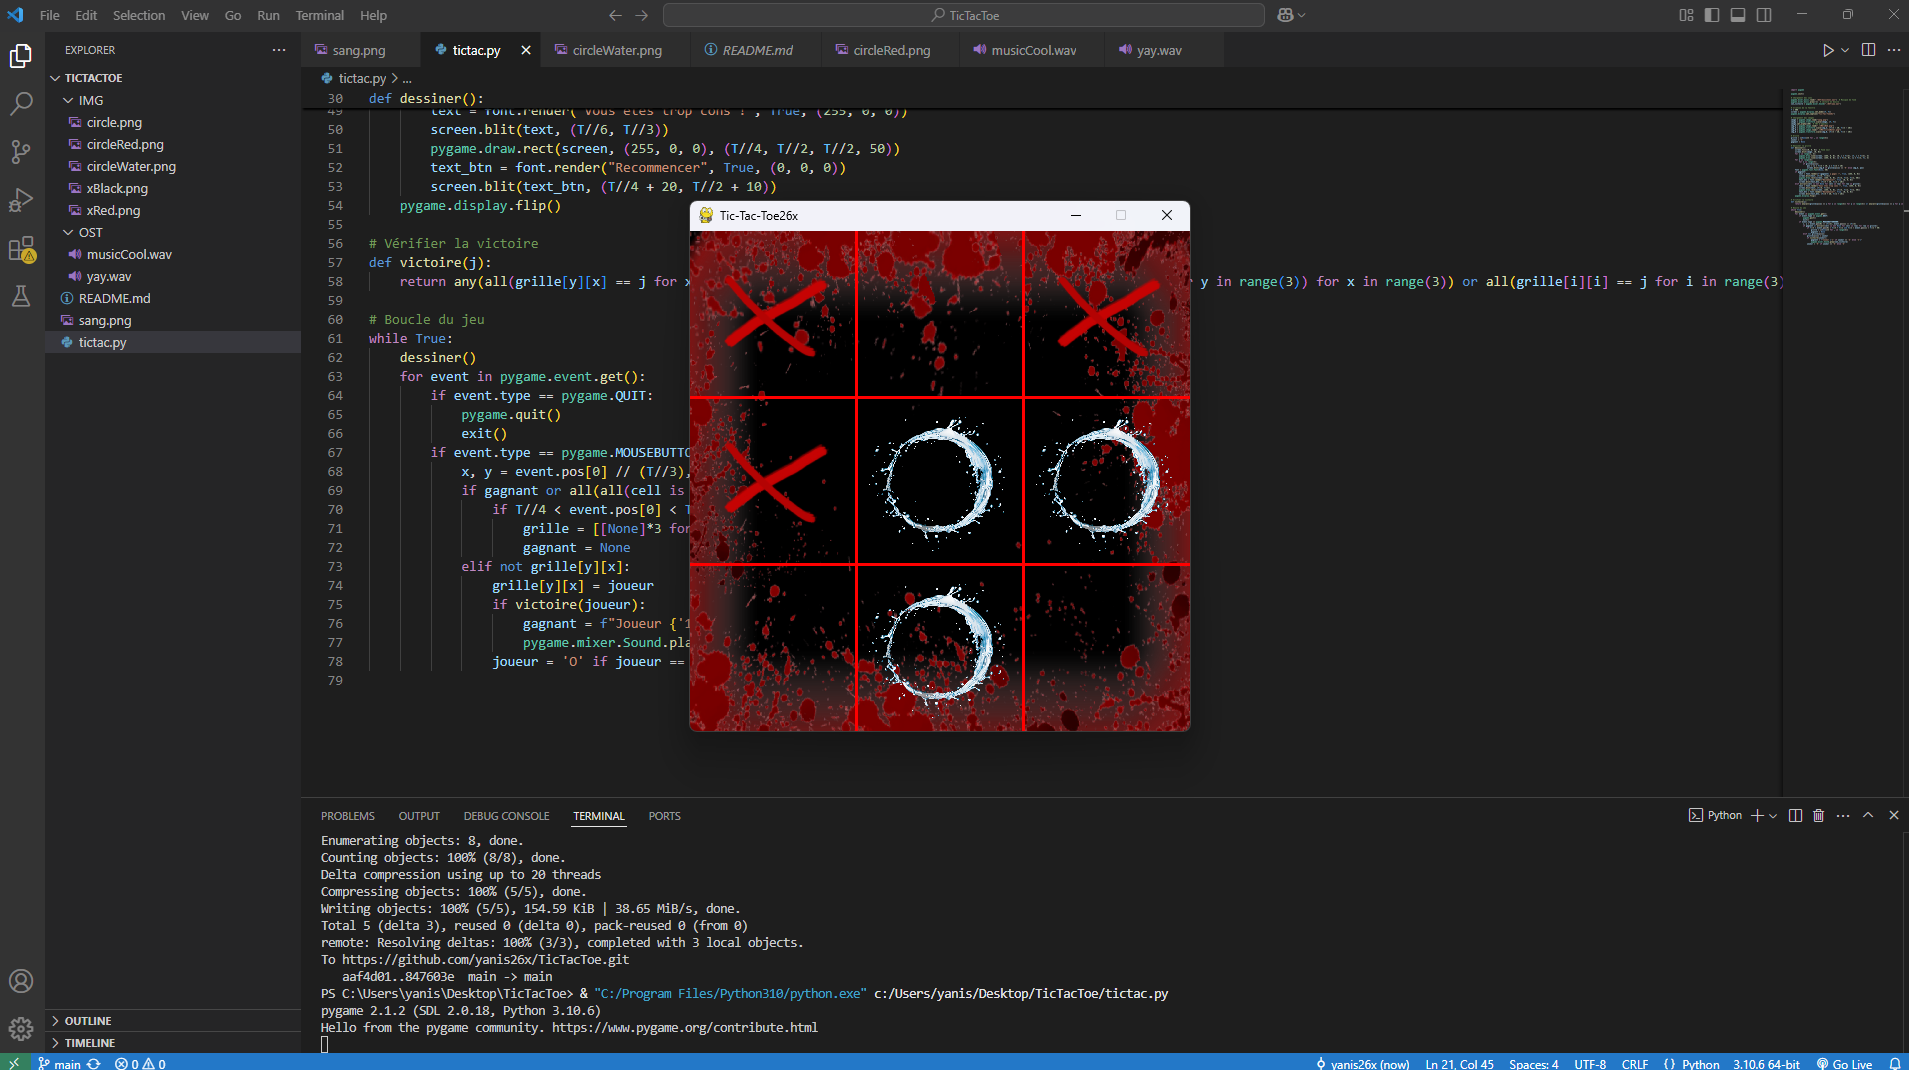
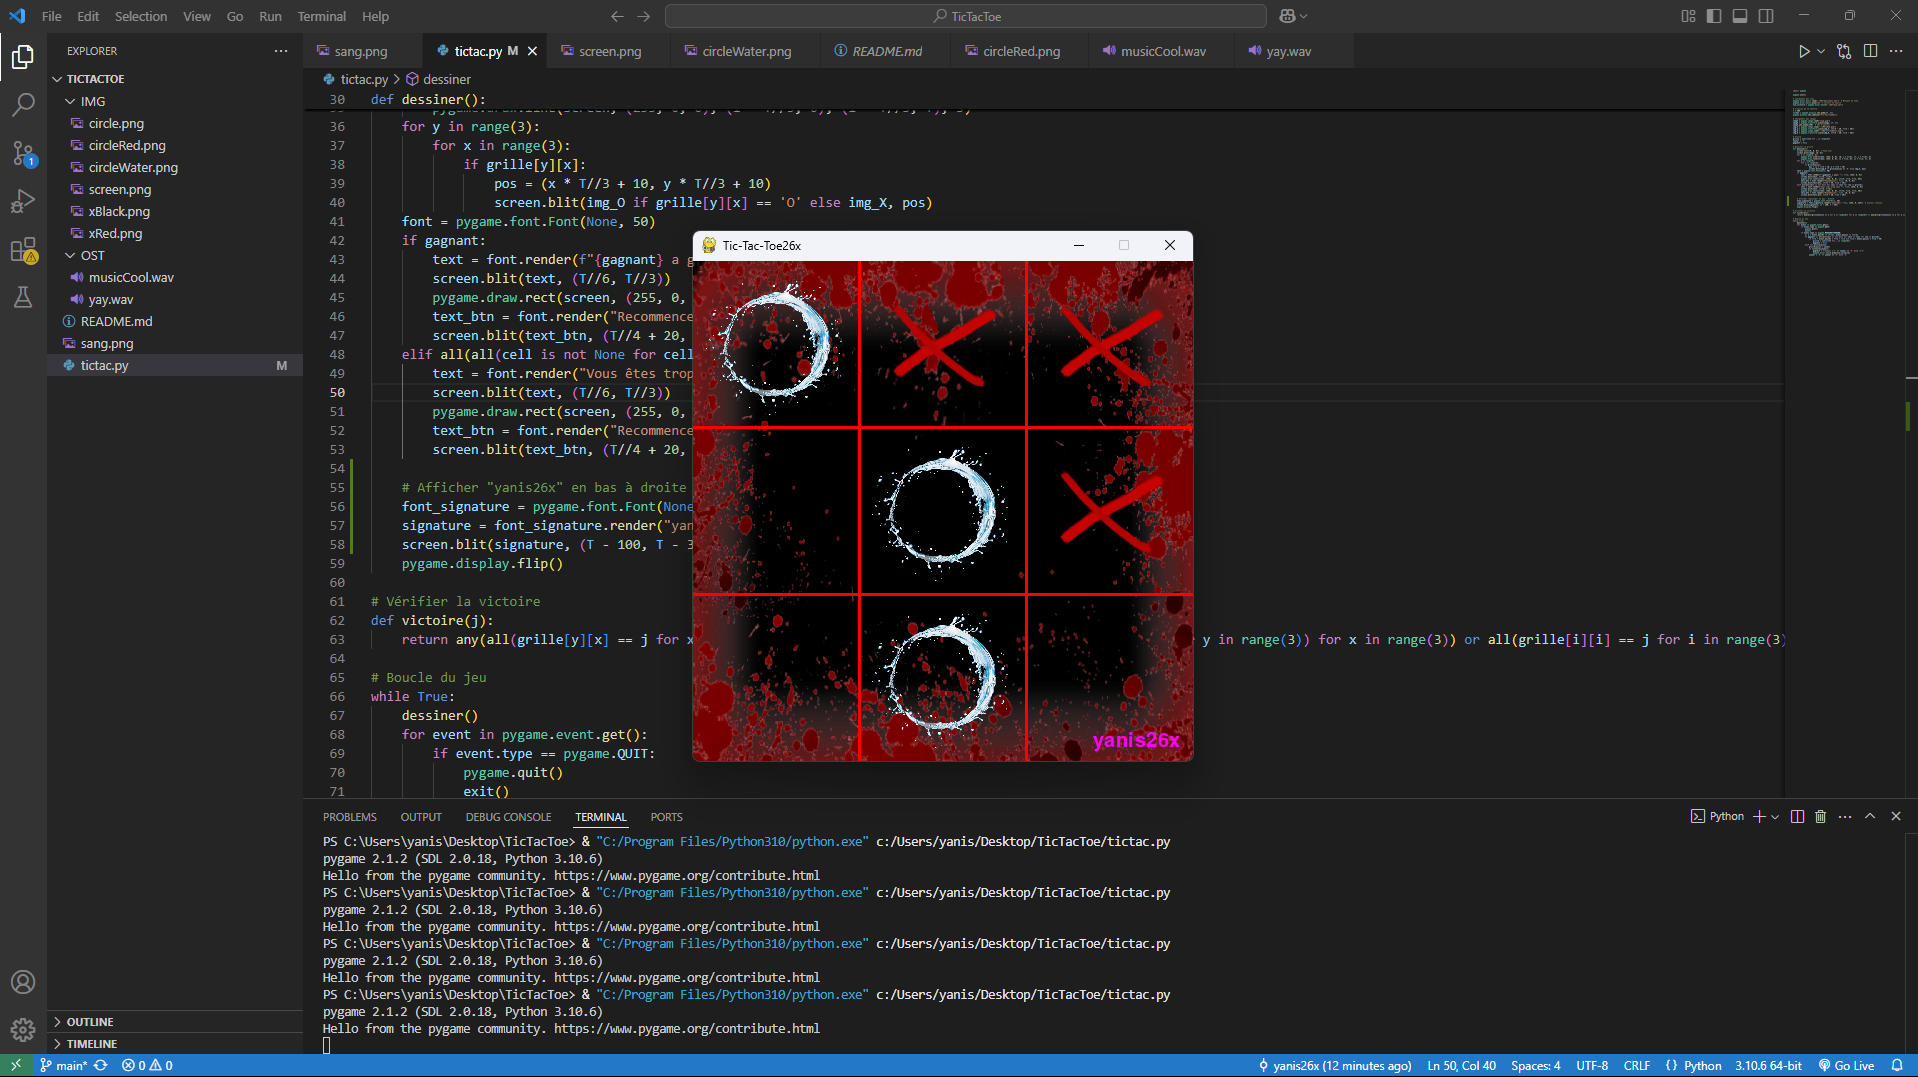
ajout de yanis26x et nv screen

diff --git a/tictac.py b/tictac.py
@@ -51,6 +51,11 @@ def dessiner():
         pygame.draw.rect(screen, (255, 0, 0), (T//4, T//2, T//2, 50))
         text_btn = font.render("Recommencer", True, (0, 0, 0))
         screen.blit(text_btn, (T//4 + 20, T//2 + 10))
+
+    # Afficher "yanis26x" en bas à droite
+    font_signature = pygame.font.Font(None, 30)
+    signature = font_signature.render("yanis26x", True, (255, 0, 255))  # Couleur fuchsia
+    screen.blit(signature, (T - 100, T - 30))
     pygame.display.flip()
 
 # Vérifier la victoire
